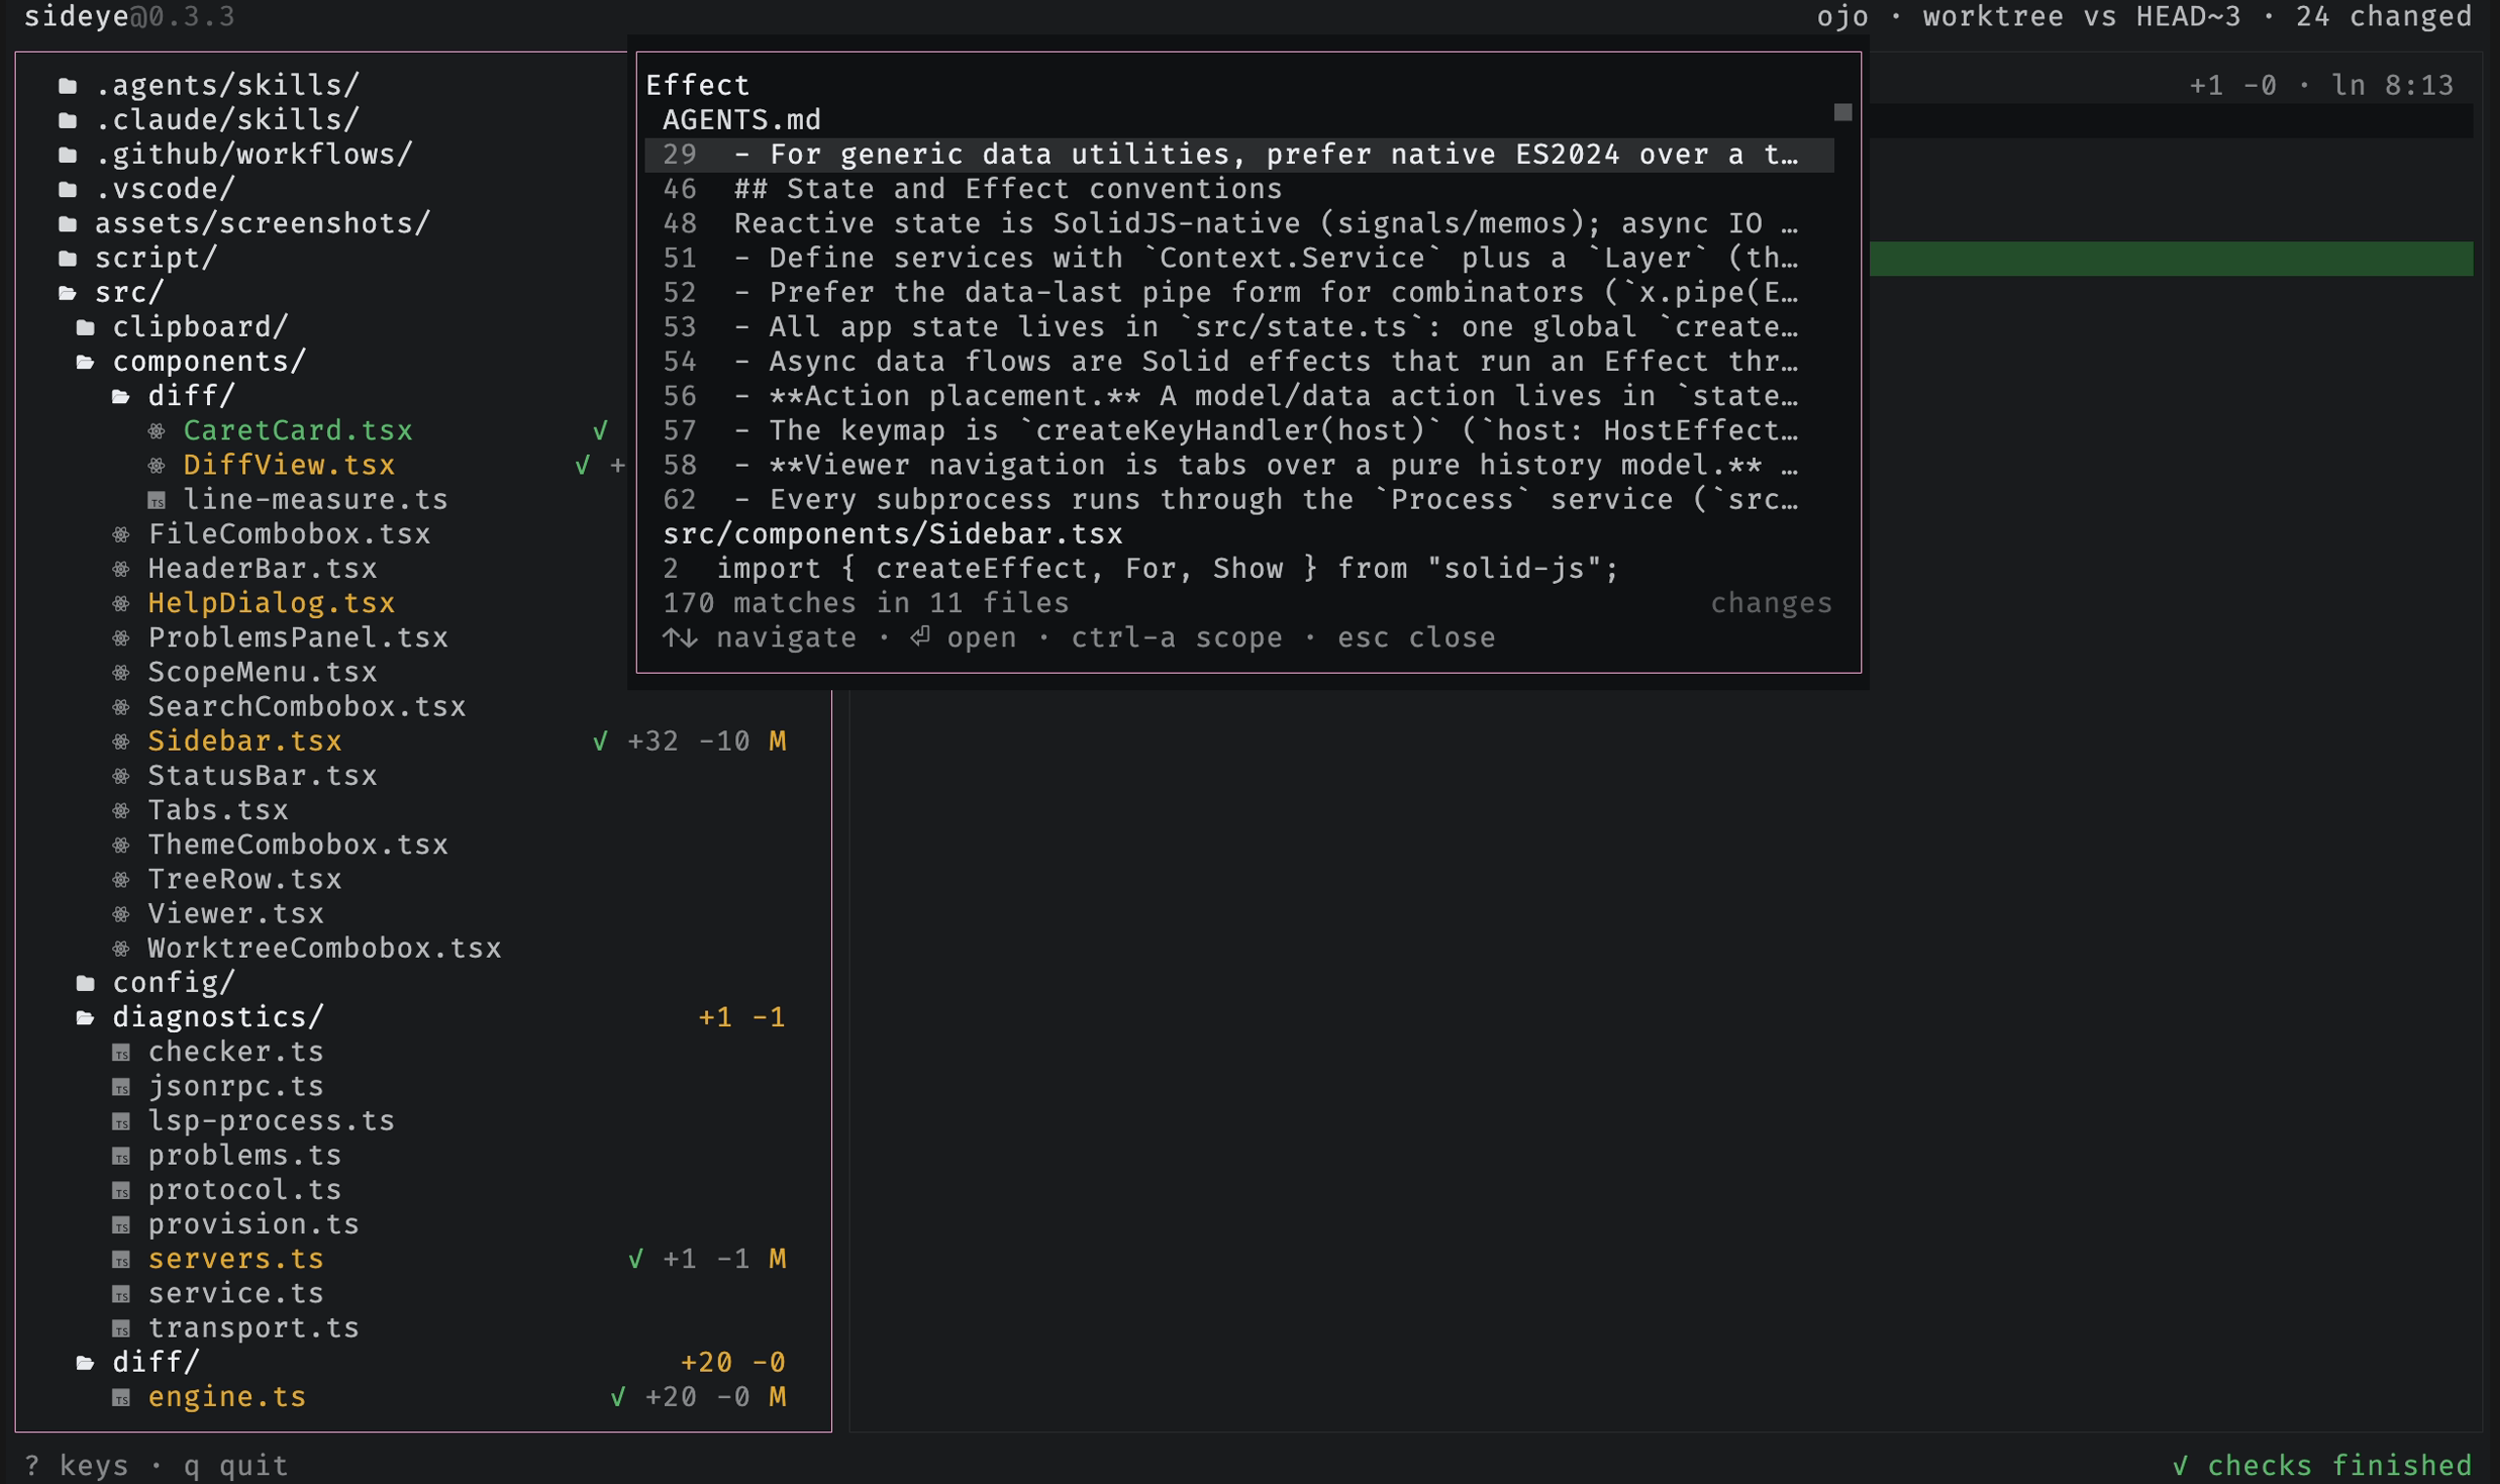
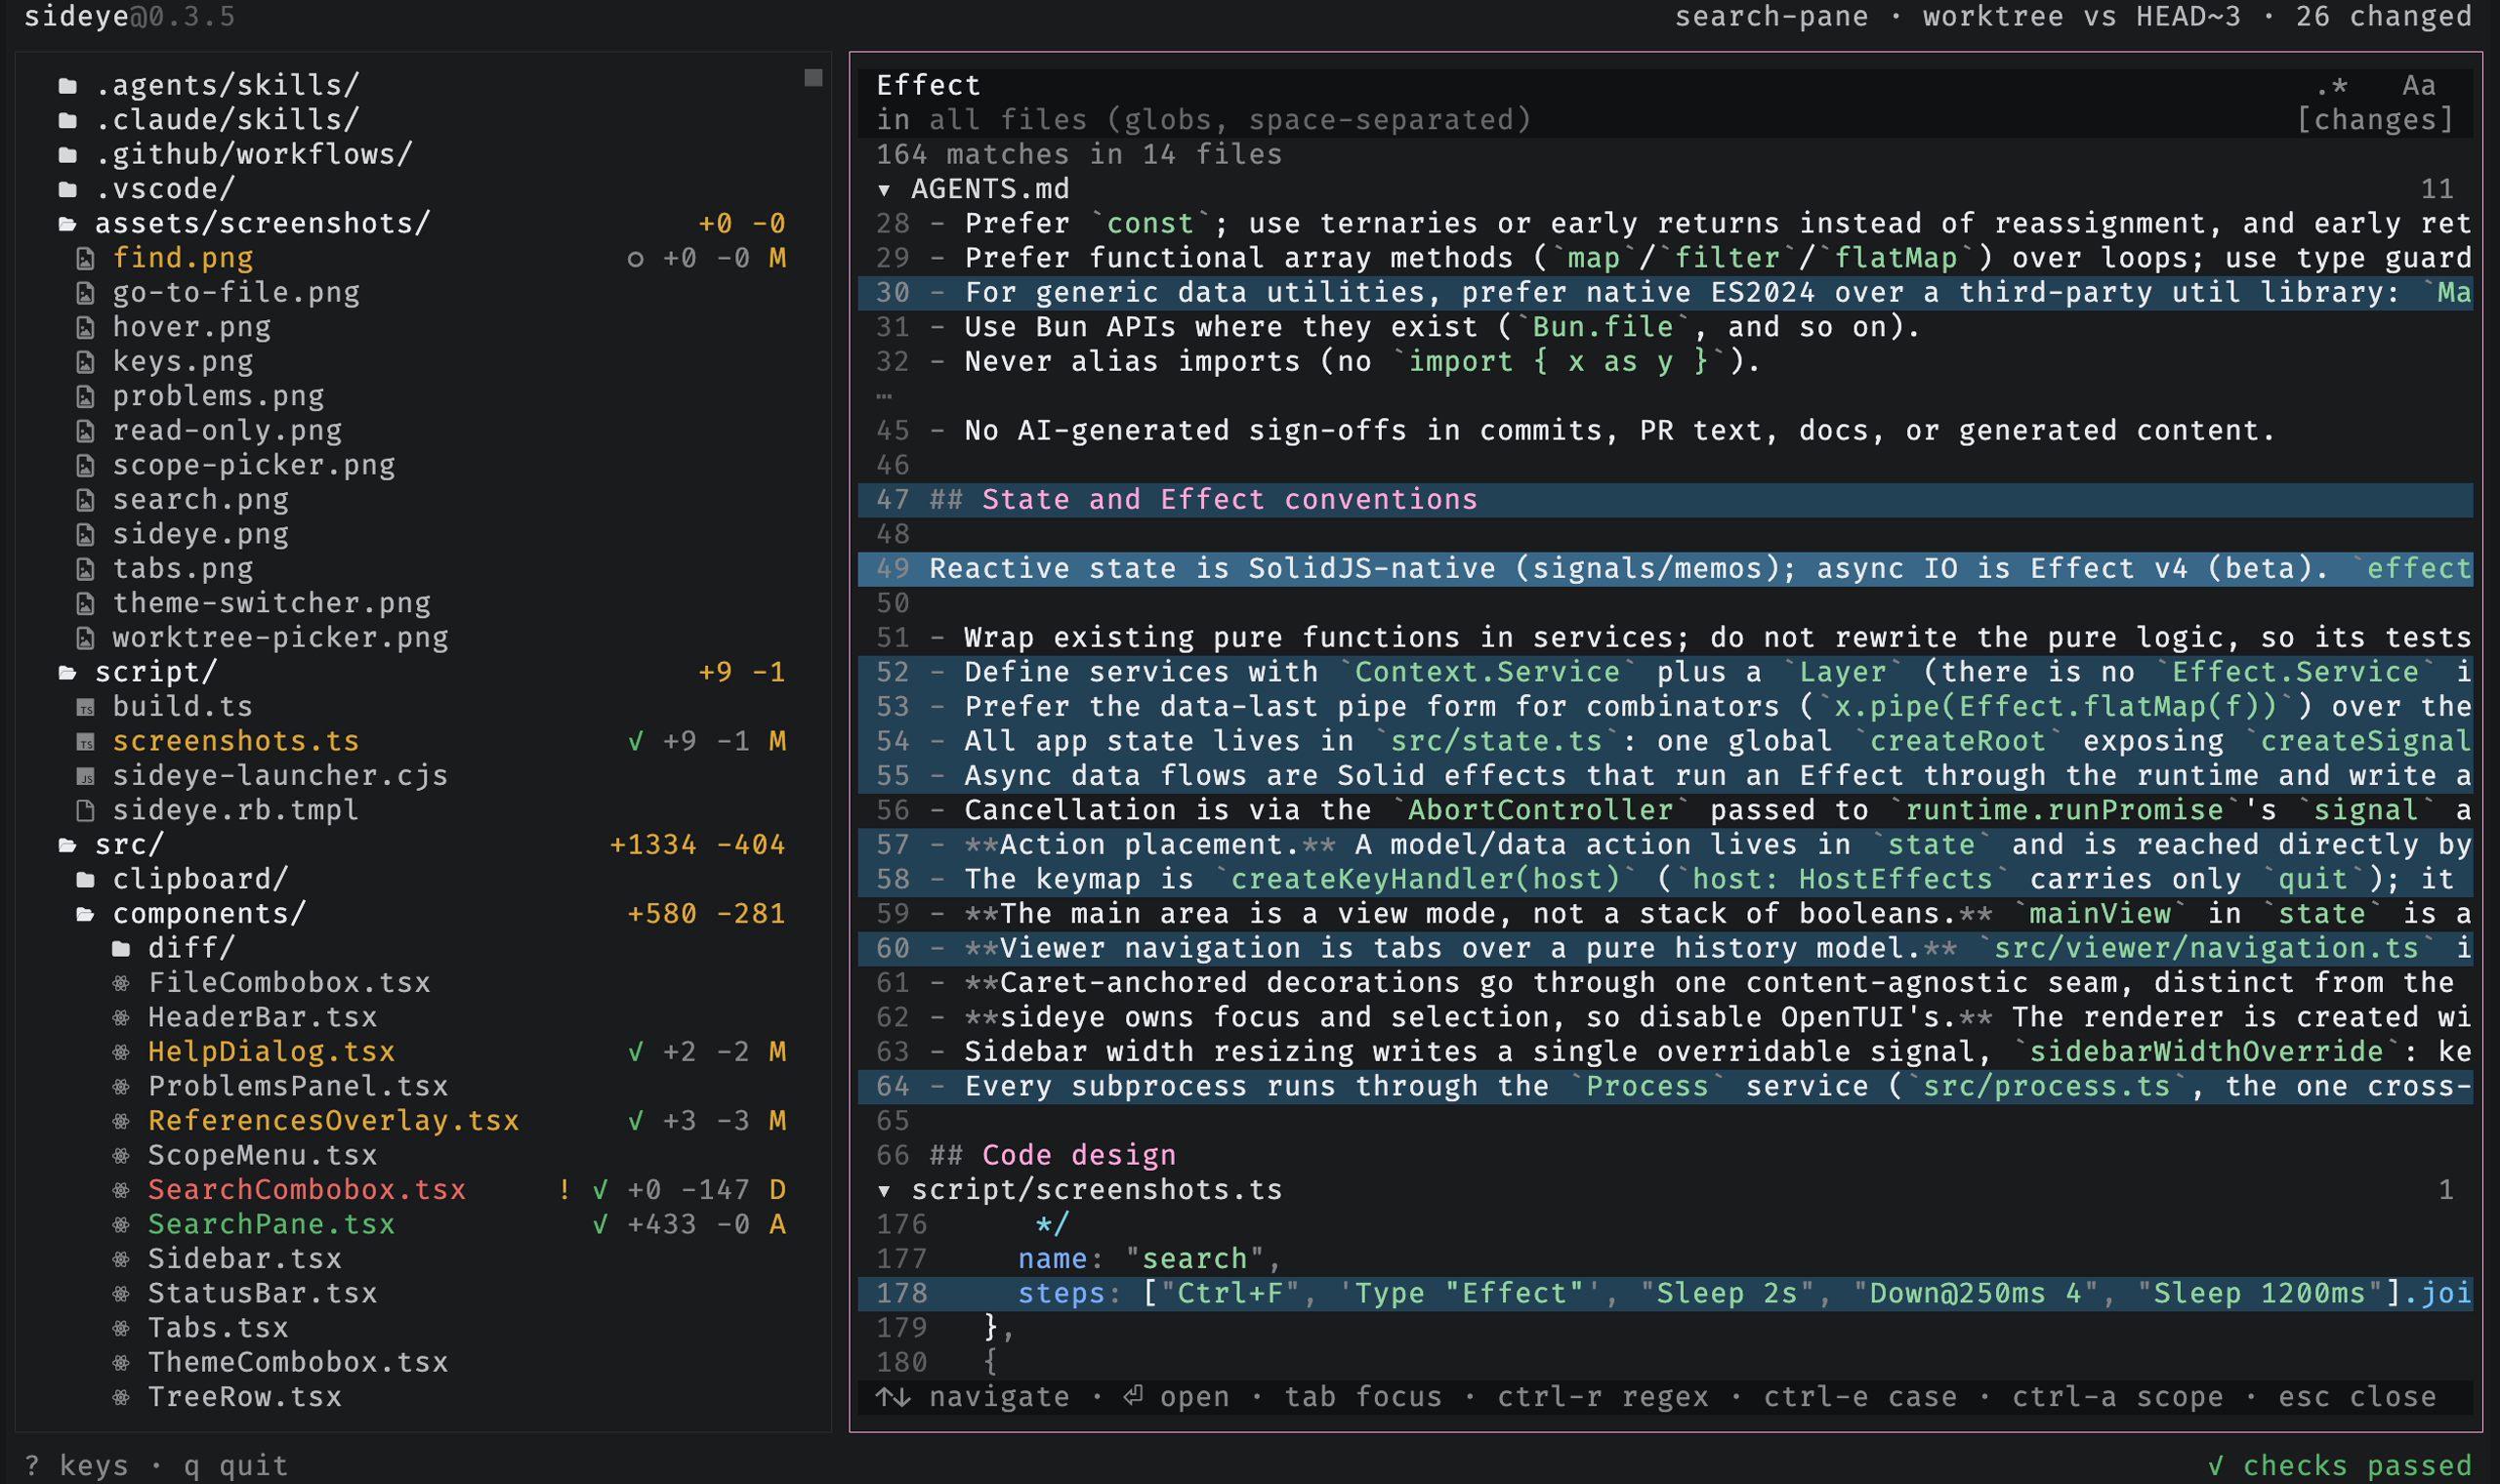
docs(readme): 📝 refresh the search, keys, and find screenshots for the search pane
search.png now shows the full-view project search pane (grouped results
with syntax-highlighted context, the selection tint, and the query
toggles), keys.png picks up the updated ctrl-f and ctrl-b help entries,
and find.png is re-captured against the same tree. The search tape
drives the selection into the results so the shot shows the match
highlight.

diff --git a/script/screenshots.ts b/script/screenshots.ts
@@ -168,7 +168,15 @@ const screens = [
       "Sleep 1s",
     ].join("\n"),
   },
-  { name: "search", steps: ["Ctrl+F", 'Type "Effect"', "Sleep 1200ms"].join("\n") },
+  {
+    /**
+     * The full-view search pane: type a query with matches across several changed files, wait for
+     * the grep + context reads + highlight to settle, then arrow into the results so the shot shows
+     * the selection tint on a match row alongside the grouped, syntax-highlighted context.
+     */
+    name: "search",
+    steps: ["Ctrl+F", 'Type "Effect"', "Sleep 2s", "Down@250ms 4", "Sleep 1200ms"].join("\n"),
+  },
   {
     // Open an unchanged file: plain syntax-highlighted source, no diff gutters.
     name: "read-only",